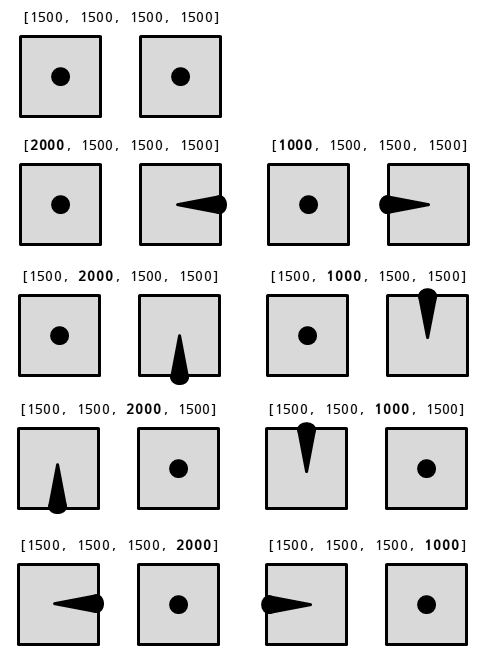
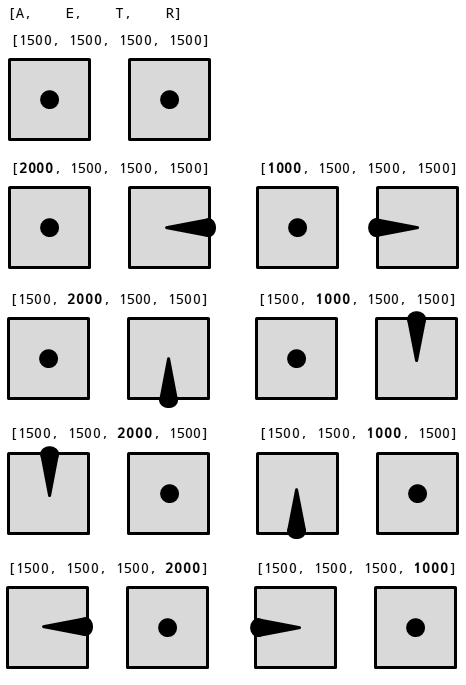
working on documentation

diff --git a/src/sensors.c b/src/sensors.c
@@ -121,17 +121,17 @@ bool update_sensors()
       last_time_look_for_disarmed_sensors = now;
       if(!sonar_present())
       {
-        if(sonar_check())
-        {
-          mavlink_log_info("FOUND SONAR", NULL);
-        }
+//        if(sonar_check())
+//        {
+//          mavlink_log_info("FOUND SONAR", NULL);
+//        }
       }
       if(!diff_pressure_present())
       {
-        if(diff_pressure_check())
-        {
-          mavlink_log_info("FOUND DIFF PRESS", NULL);
-        }
+//        if(diff_pressure_check())
+//        {
+//          mavlink_log_info("FOUND DIFF PRESS", NULL);
+//        }
       }
       if (!mag_present())
       {

diff --git a/docs/user-guide/preflight-checks.md b/docs/user-guide/preflight-checks.md
@@ -1,7 +1,45 @@
-# Preflight checks
+# Pre-Flight Checklist
 
-## Common parameters to check
+This is an example of a ROSflight pre-flight checklist.  You will likely need to augment this with checks specific to your hardware and the code running on the onboard computer.
 
-## Checking control surface deflections/motor directions
+### Before powering up motors
+- ROS is running on onboard computer, communicating with base station
+- Sensors are calibrated and publishing
+    + IMU (re-calibrate every flight)
+    + Magnetometer
+    + Barometer
+    + Sonar (if attached)
+    + Airspeed (if attached)
+- Estimated attitude is being published and looks accurate
+- RC communication
+- Arming and disarming
+- Published outputs look reasonable
+- Failsafe behavior
+- RC override behavior
+- RC range test
+- Wire-wiggle test (wiggle all wires to look for bad connections)
 
-## Calibration checklist
+### After Powering Up Motors (MAKE SURE THE FLIGHT CONTROLLER IS DISARMED!!!)
+- Arm/Disarm test
+- Propeller spin test (check directions and response to stick inputs)
+- Control surface test (Fixed Wing)
+- Response to offboard controls (Fixed Wing)
+
+# Fixed Wing Parameter Configuration
+
+Because ROSflight ships with default parameters for multirotors, you will probably want to change the following parameters if you want to fly a fixed wing aircraft.
+
+
+| Parameter | Description | Type | Fixed Wing Value
+|-----------|-------------|------|---------------|
+| MOTOR_PWM_UPDATE | Refresh rate of motor commands to motors and servos (Hz) - See motor documentation | int |  50 |
+| ARM_SPIN_MOTORS | Enforce MOTOR_IDLE_PWM | int |  false |
+| MOTOR_IDLE_THR | Idle PWM sent to motors at zero throttle (Set above 1100 to spin when armed) | float |  0.0 |
+| ARM_CHANNEL | RC switch channel mapped to arming [0 indexed, -1 to disable] | int |  4 |
+| FIXED_WING | switches on passthrough commands for fixedwing operation | int |  true |
+| MIXER | Which mixer to choose - See Mixer documentation | int | 4  |
+| ELEVATOR_REV | reverses elevator servo output | int |  0/1 |
+| AIL_REV | reverses aileron servo output | int |  0/1 |
+| RUDDER_REV | reverses rudder servo output | int |  0/1 |
+
+

diff --git a/docs/user-guide/parameter_config.md b/docs/user-guide/parameter_config.md
@@ -74,7 +74,29 @@ rosservice call /param_load_from_file ~/parameters.yml
 Again, you must specify the absolute file name of the file to be loaded
 
 
+# Fixed Wing Parameter Configuration
+
+Because ROSflight ships with default parameters for multirotors, you will probably want to change the following parameters if you want to fly a fixed wing aircraft.
+
+
+| Parameter | Description | Type | Fixed Wing Value
+|-----------|-------------|------|---------------|
+| MOTOR_PWM_UPDATE | Refresh rate of motor commands to motors and servos (Hz) - See motor documentation | int |  50 |
+| ARM_SPIN_MOTORS | Enforce MOTOR_IDLE_PWM | int |  false |
+| MOTOR_IDLE_THR | Idle PWM sent to motors at zero throttle (Set above 1100 to spin when armed) | float |  0.0 |
+| ARM_CHANNEL | RC switch channel mapped to arming [0 indexed, -1 to disable] | int |  4 |
+| FIXED_WING | switches on passthrough commands for fixedwing operation | int |  true |
+| MIXER | Which mixer to choose - See Mixer documentation | int | 4  |
+| ELEVATOR_REV | reverses elevator servo output | int |  0/1 |
+| AIL_REV | reverses aileron servo output | int |  0/1 |
+| RUDDER_REV | reverses rudder servo output | int |  0/1 |
+
+
 # Description of all Parameters
+
+This is a list of all parameters on ROSflight, their default values as well as a minimum and maximum recommended setting.
+
+
 | Parameter | Description | Type | Default Value | Min | Max |
 |-----------|-------------|------|---------------|-----|-----|
 | BAUD_RATE | Baud rate of MAVlink communication with onboard computer | int |  921600 | 9600 | 921600 |
@@ -85,7 +107,6 @@ Again, you must specify the absolute file name of the file to be loaded
 | STRM_MAG | Rate of magnetometer stream (Hz) | int |  75 | 0 | 75 |
 | STRM_BARO | Rate of barometer stream (Hz) | int |  100 | 0 | 100 |
 | STRM_AIRSPEED | Rate of airspeed stream (Hz) | int |  20 | 0 | 50 |
-| STRM_GPS | Rate of GPS stream (Hz) | int |  0 | 0 | 1 |
 | STRM_SONAR | Rate of sonar stream (Hz) | int |  40 | 0 | 40 |
 | STRM_OUTPUT | Rate of raw output stream | int |  50 | 0 | 490 |
 | STRM_RC | Rate of raw RC input stream | int |  50 | 0 | 50 |

diff --git a/docs/user-guide/hardware-setup.md b/docs/user-guide/hardware-setup.md
@@ -23,6 +23,7 @@ Some things to keep in mind as you design or build your MAV.
 * Most kits do not include space for an onboard computer, cameras, laser scanners or other sensors.  Be sure to think about where these components are going to go, and how their placement will affect the CG of the MAV.
 * You will likely also need to customize the power curcuitry of your MAV to provide power at some specific voltage to your onboard computer.  Many people like to separate the power electronics (The ESCs and motors) from the computer and onboard sensors.  This can really come in handy if you are trying to develop code on the MAV, because you can have the computer on and sensors powered, and not worry at all about propellers turning on and causing injury as you move the aircraft about by hand.  We will talk about this more when we talk about wiring up your MAV.
 * Cheap propellers can cause a huge amount of vibration.  Consider buying high-quality propellers, doing a propeller balance, or both.  RCGroups, DIY Drones and Youtube have some awesome guides on how to do propeller balancing.
+* ESCs will need to be calibrated from 2000 to 1000 us
 
 
 ## Flight Controller

diff --git a/docs/user-guide/performance.md b/docs/user-guide/performance.md
@@ -1,5 +1,12 @@
-# Improving performance
+# Multirotor gain tuning
 
-## Multirotor gain tuning
+Becuase there are a wide variety of multirotors out there, no one set of PID controller gains will work for all vehicles.  The default set of gains is relatively conservative for most platforms, and should be somewhat airworthy in most cases, however, depending on the inertia to torque ratio for your MAV, you may have to change these gains considerably.  There are some great tutorials online on multirotor gain tuning, however since this is the ROSflight documentation, I'll put my tuning method here for you.
 
-## RC trim calculation
+If you are unfamiliar with PIDs, then you should probably go read about them before trying to tune a multirotor.  Getting an understanding for what is going on will definitely guide your decision making process as you try to figure out better gains.
+
+Some people like to build test stands to tune your multirotor safely.  This is probably a good idea.  However, I've never used one of these stands and I've tuned multirotors that weigh several times as much as I do without one.  Just be careful.
+
+
+
+
+# RC trim calculation

diff --git a/docs/user-guide/rc_configuration.md b/docs/user-guide/rc_configuration.md
@@ -26,7 +26,7 @@ Until we get a video of this for our system, you may want to follow this YouTube
 
 You now have to make sure your RC transmitter is sending commands consistent with the north-east-down (NED) frame assumed by ROSflight.
 
-You may find this graphic helpful.  It shows all the basic stick positions, and the associated output from the first four channels when looking at the raw RC signal from `fcu_io`.  Make sure that the stick output is in the right direction.
+You may find this graphic helpful.  It shows all the basic stick positions, and the associated output from the first four channels when looking at a raw AETR RC signal from `fcu_io`.  Make sure that the stick output is in the right direction.
 
 ![stick_image](images/sticks.png)
 
